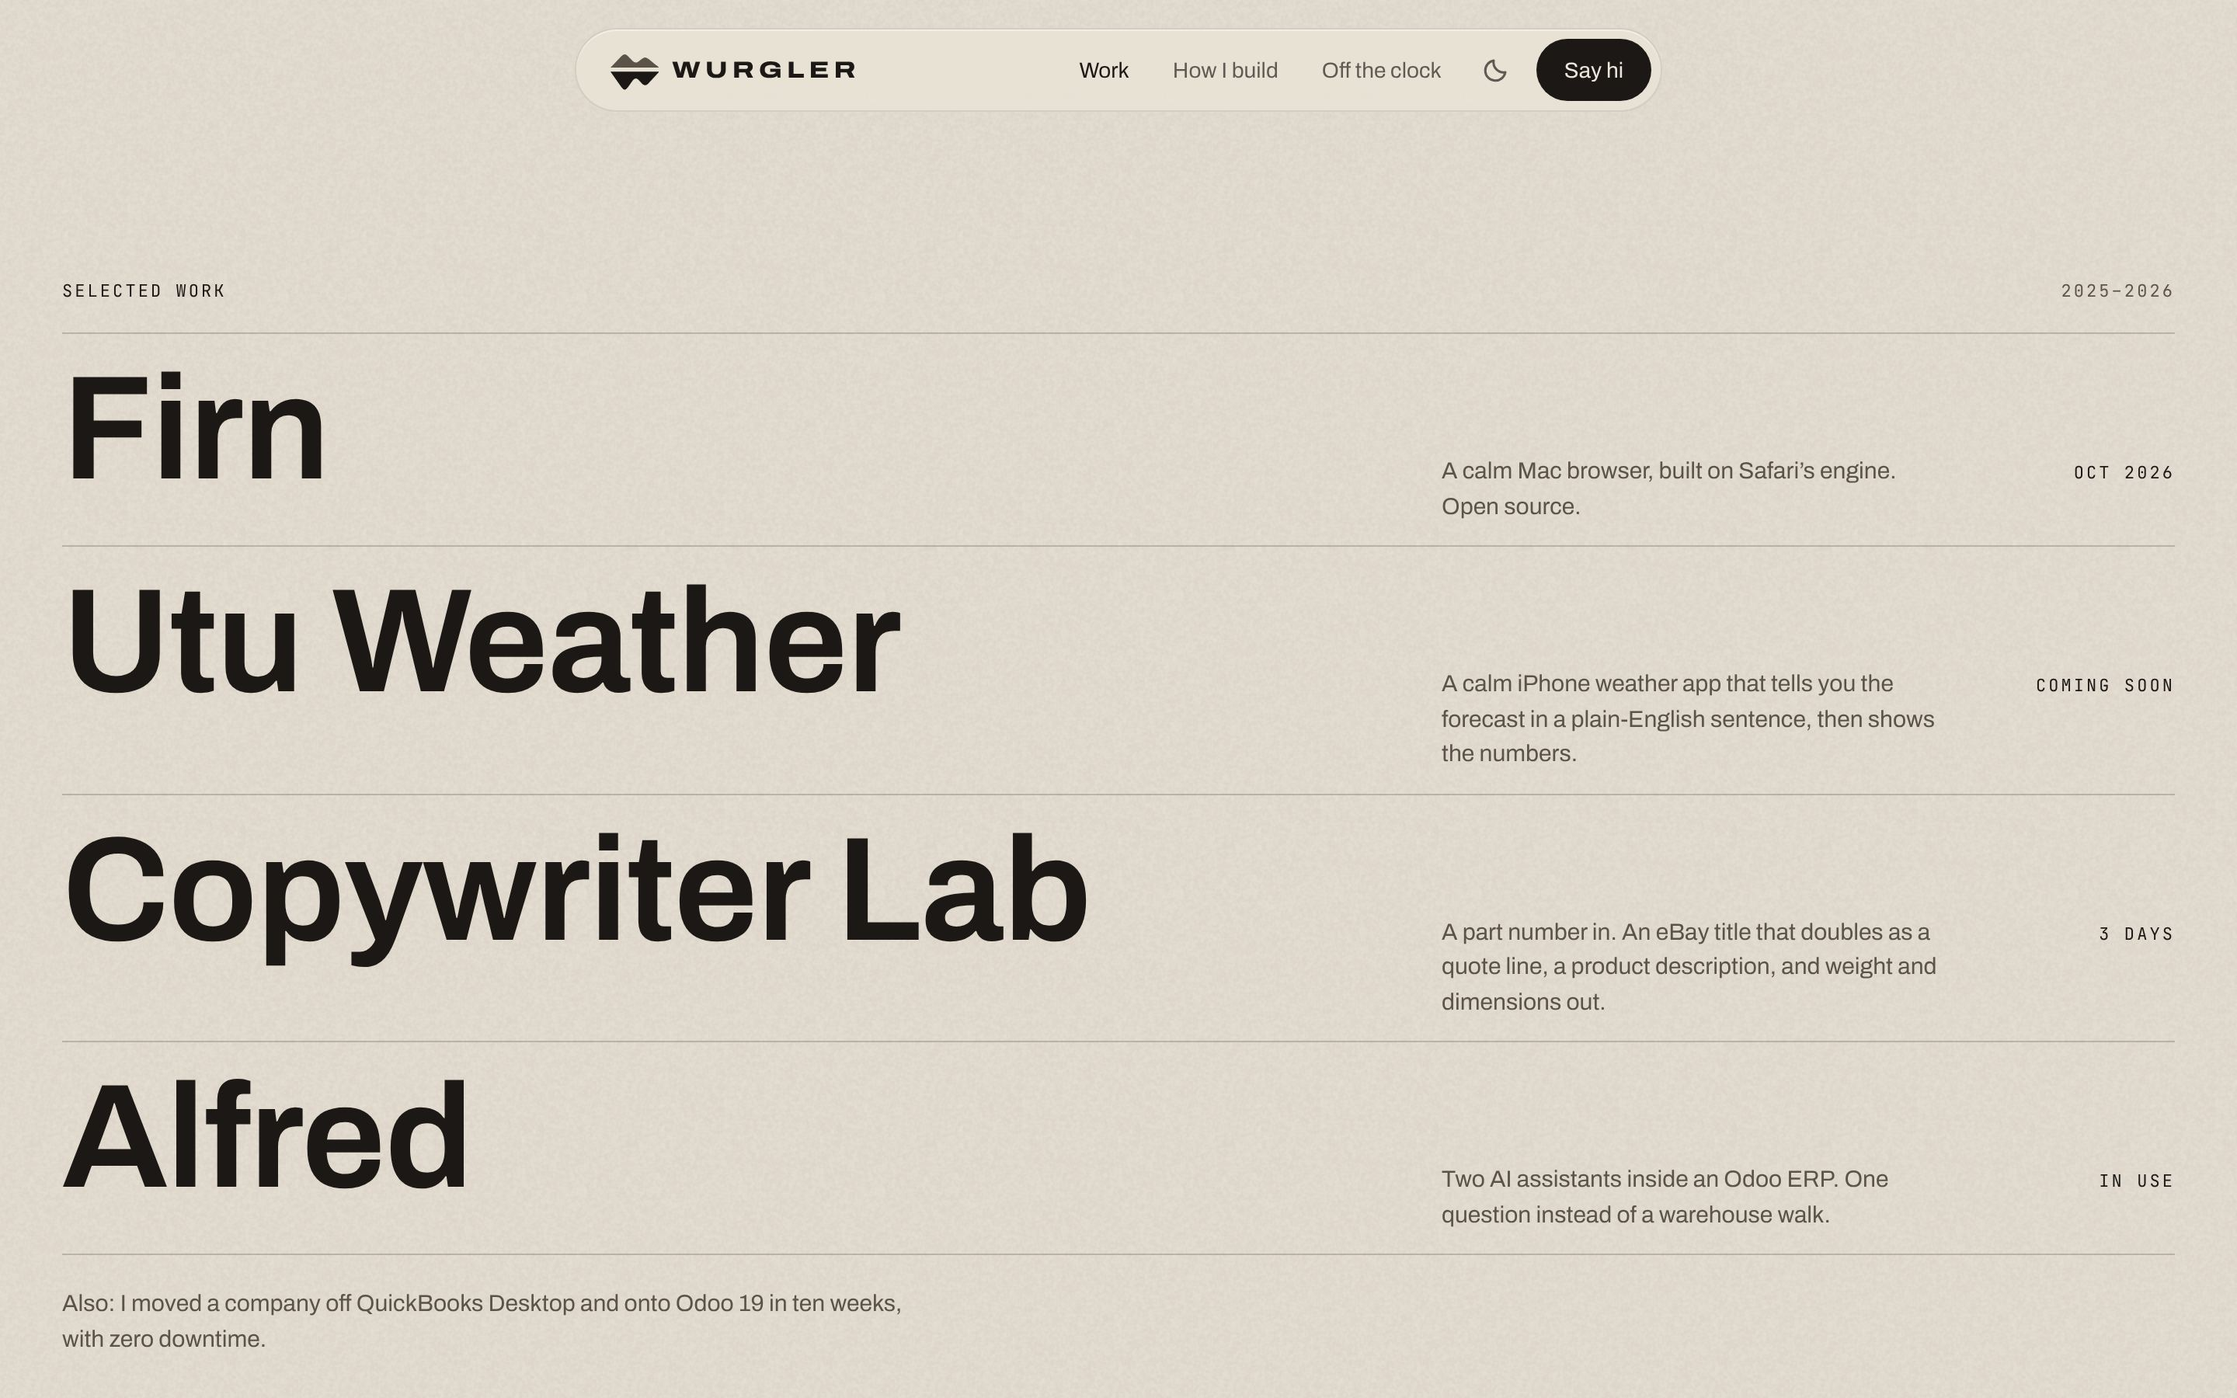
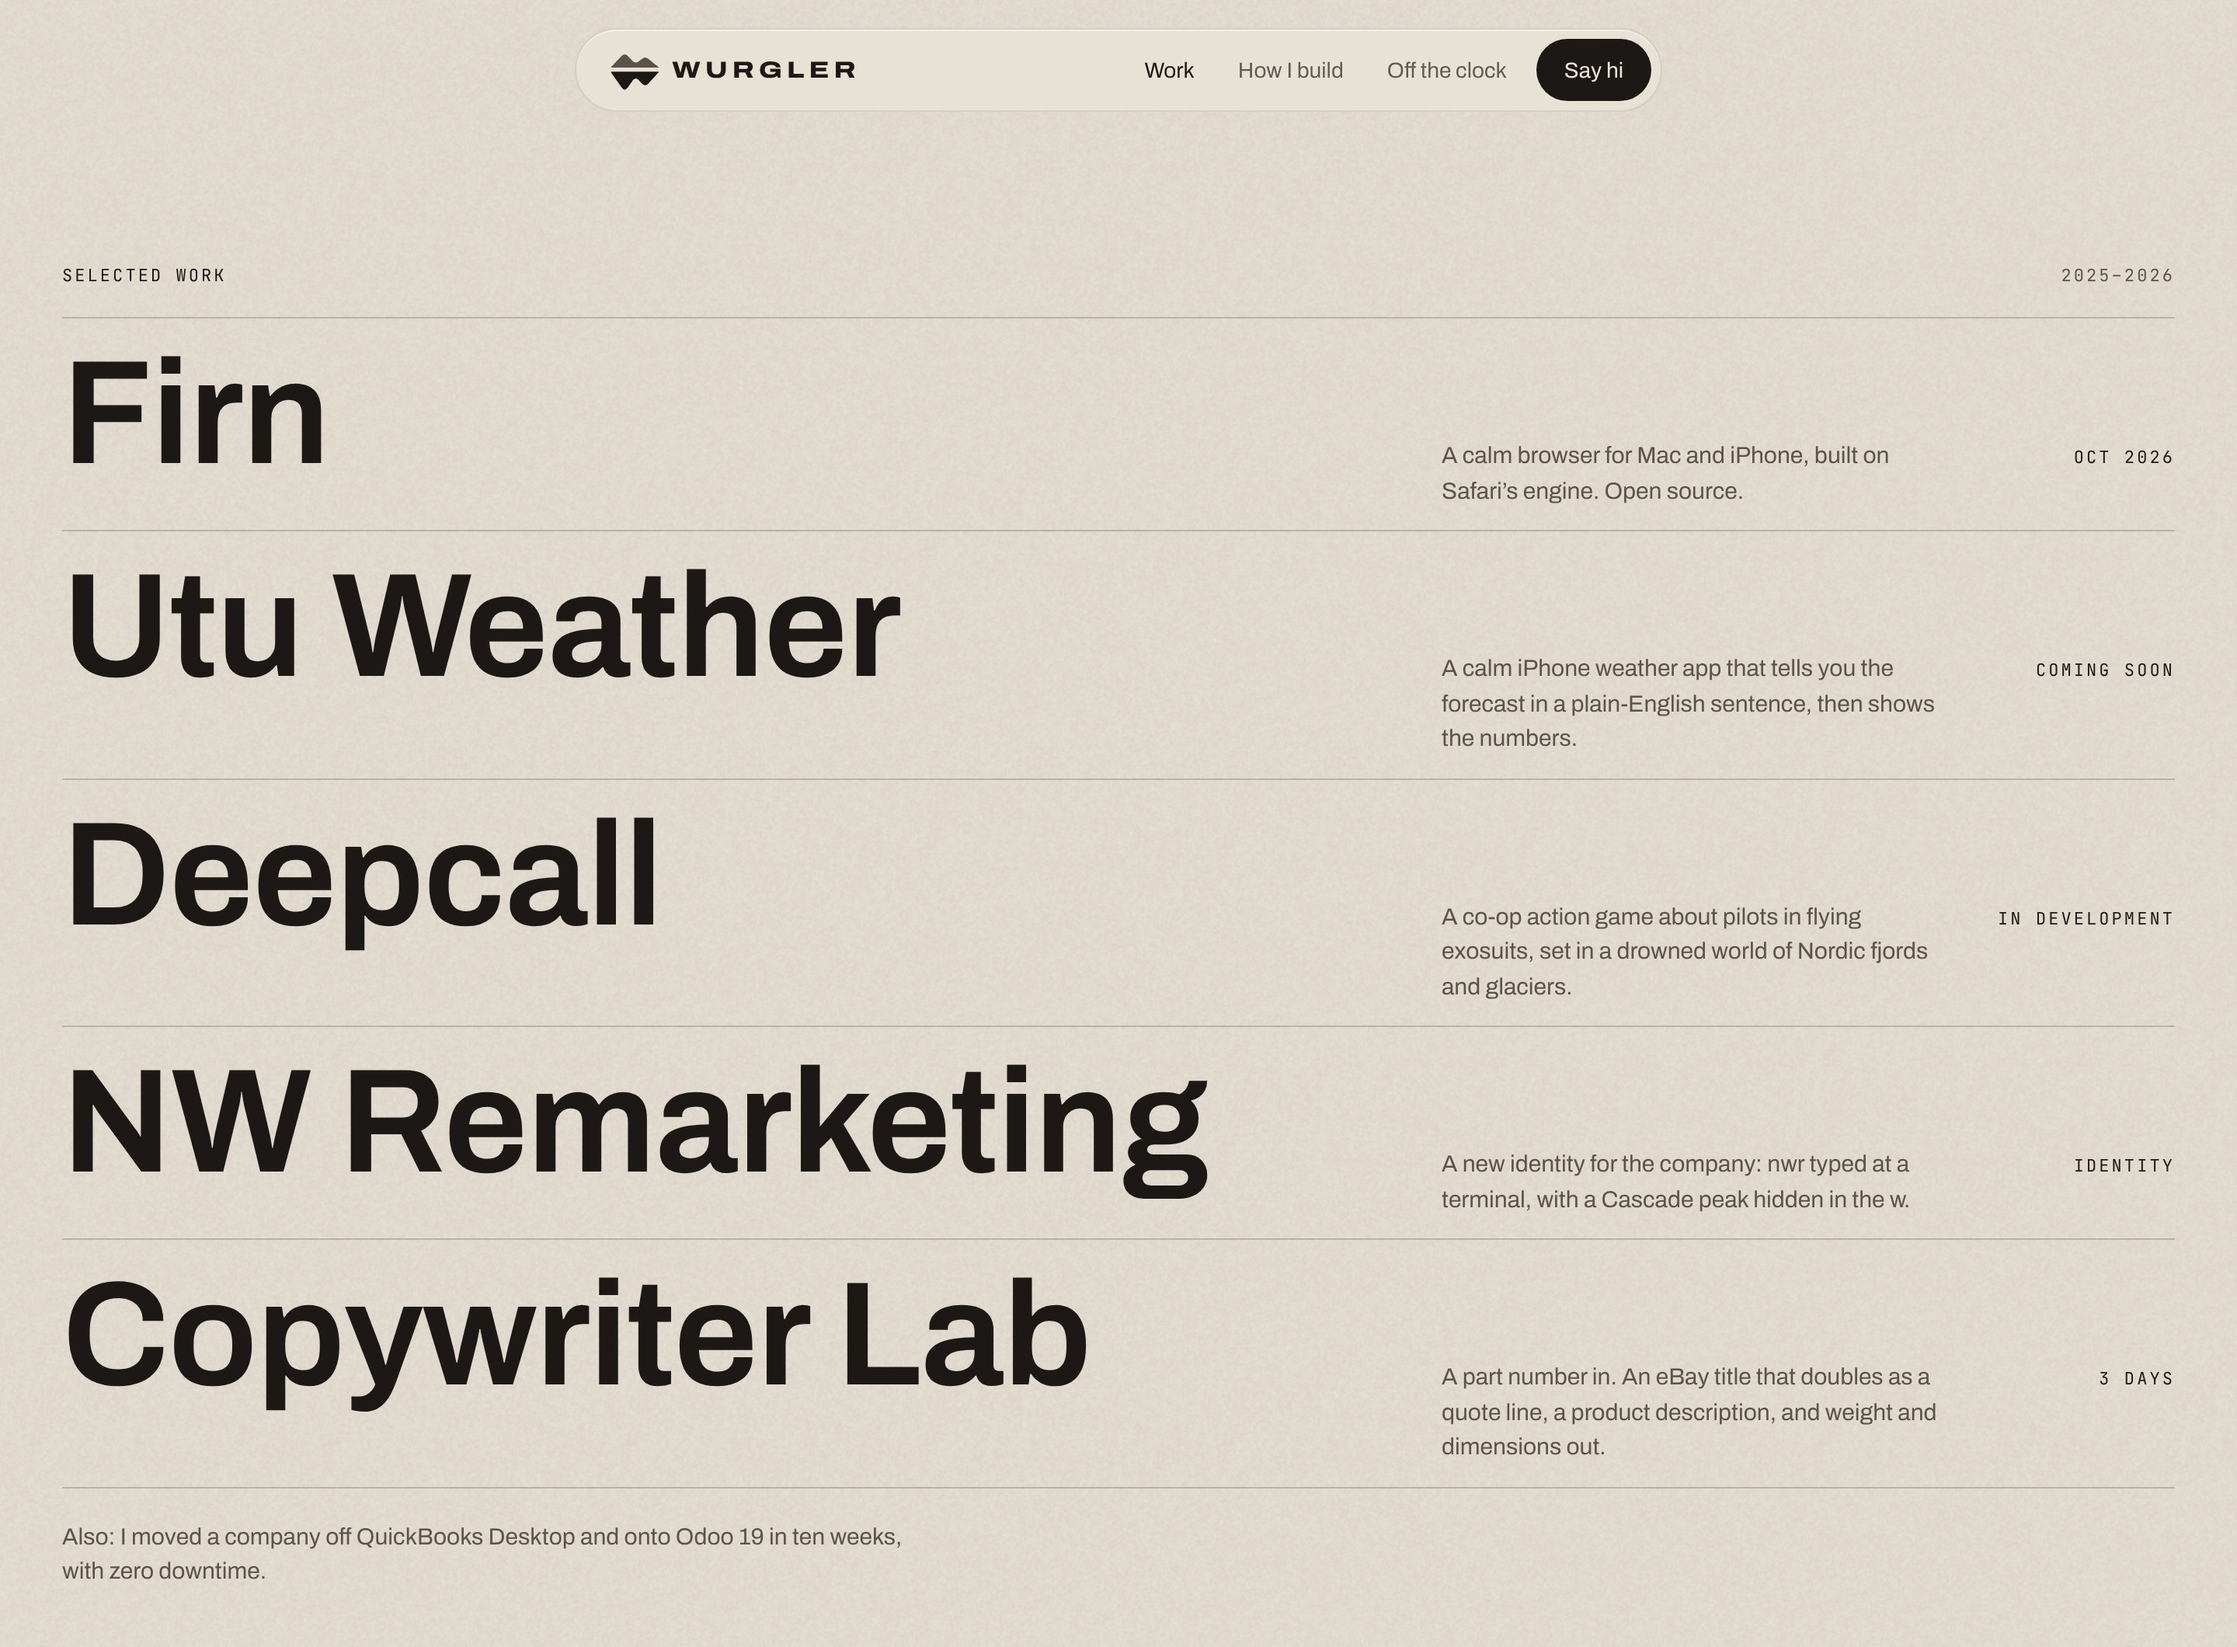
README: new screenshots of the hero and the five-project work index
Claude-Session: https://claude.ai/code/session_01PCTozQb23zVjz1M15wtUfx

diff --git a/README.md b/README.md
@@ -28,7 +28,7 @@ This site was built that way, and the documents are all here:
 
 Warm paper with ink type, and my own photographs as windows in it. Calm, tactile, and quick.
 
-![The work index: Firn, Utu Weather, Copywriter Lab, and Alfred set large in ink on paper.](docs/images/home-desktop-work.jpg)
+![The work index: Firn, Utu Weather, Deepcall, NW Remarketing, and Copywriter Lab set large in ink on paper.](docs/images/home-desktop-work.jpg)
 
 | | Light | Dark |
 |---|---|---|
